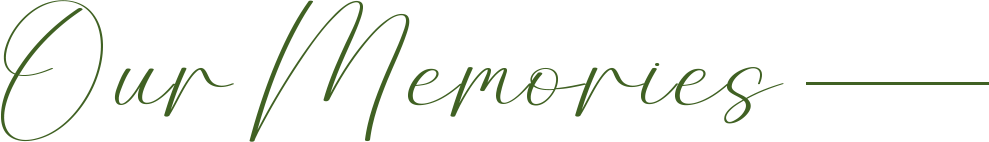
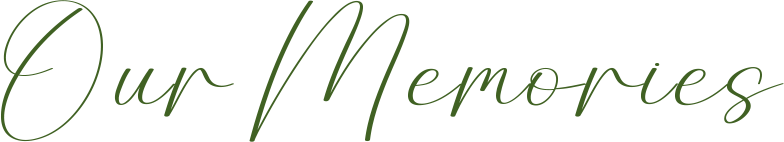
Fix responsive

Changed region(s): [[0.0, 0.0, 1.0, 1.0]]

diff --git a/index.html b/index.html
@@ -100,9 +100,9 @@
     <section class="timeline" id="timeline">
         <img class="image-timeline" src="./images/image_timeline.png" alt="image_timeline">
         <div class="mt-5">
-            <div class="row">
+            <div class="row col-timeline">
                 <div class="col-3">
-                    <img class="image-camera mx-4" src="./images/camera.png" alt="camera">
+                    <img class="image-camera mx-5 mt-2" src="./images/camera.png" alt="camera">
                 </div>
                 <div class="col-9">
                     <div class="mx-4">
@@ -110,14 +110,15 @@
                             ĐÓN KHÁCH | 17:30
                         </p>
                         <p class="mt-1">
-                            Checkin với photobooth và gửi lời chúc đến dâu rể
+                            Checkin với photobooth và gửi<br>
+                            lời chúc đến dâu rể
                         </p>
                     </div>
                 </div>
             </div>
-            <div class="row">
-                <div class="col-3 mt-2">
-                    <img class="image-rings mx-4" src="./images/rings.png" alt="rings">
+            <div class="row col-timeline">
+                <div class="col-3">
+                    <img class="image-rings mx-5" src="./images/rings.png" alt="rings">
                 </div>
                 <div class="col-9">
                     <div class="mx-4">
@@ -130,25 +131,25 @@
                     </div>
                 </div>
             </div>
-            <div class="row">
+            <div class="row col-timeline">
                 <div class="col-3 mt-2">
-                    <img class="image-cups mx-4" src="./images/cups.png" alt="cups">
+                    <img class="image-cups mx-5" src="./images/cups.png" alt="cups">
                 </div>
                 <div class="col-9">
-                    <div class="mx-4">
+                    <div class="mx-4 mt-3">
                         <p class="title">
                             ĐÓN KHÁCH | 17:30
                         </p>
                         <p class="mt-1">
-                            Cùng nhau ăn tiệc và nâng ly chúc mừng cô dâu chú rể
+                            Cùng nhau ăn tiệc và nâng ly<br>chúc mừng cô dâu chú rể
                         </p>
                     </div>
                 </div>
             </div>
         </div>
     </section>
-    <section class="our-memories pt-5 pb-2" id="our-memories">
-        <img class="title mx-2" src="./images/image_our_memories.png" alt="image_our_memories">
+    <section class="our-memories pt-5 pb-3" id="our-memories">
+        <img class="title" src="./images/image_our_memories.png" alt="image_our_memories">
         <div class="mx-2 mb-2 mt-5">
             <img src="./images/group_our_memories.png" alt="group_our_memories">
         </div>

diff --git a/index.css b/index.css
@@ -79,11 +79,9 @@ body {
 #opening img,
 #calendar .image-calendar,
 #timeline .image-timeline,
-#timeline .image-camera,
-#timeline .image-rings,
-#timeline .image-cups,
 #our-memories img,
-#thankyou img {
+#thankyou img,
+.col-timeline {
   width: 100%;
 }
 
@@ -221,18 +219,35 @@ body {
   background-size: 40%;
   background-repeat: no-repeat;
   background-position: bottom right;
-  padding-bottom: 100px;
+  padding-bottom: 80px;
+}
+
+#timeline p {
+  font-size: 12px;
 }
 
 #timeline .title {
   margin-bottom: unset;
   text-decoration: underline;
   text-underline-offset: 5px;
-  font-size: 24px;
+  font-size: 19px;
+}
+
+#timeline .image-camera,
+#timeline .image-rings,
+#timeline .image-cups {
+  width: 80%;
 }
 
 #our-memories {
   background-color: rgba(64, 97, 35, 0.302);
+}
+
+#our-memories .title {
+  width: 80%;
+  margin-left: auto;
+  margin-right: auto;
+  display: block;
 }
 
 #our-memories .line {
@@ -262,4 +277,56 @@ body {
 #thankyou .title {
   font-family: 'FTVTimelessMemories';
   font-size: 22px;
+}
+
+@media only screen and (min-width: 768px) {
+	#save-the-date .content-1,
+  #save-the-date .content-2 {
+    font-size: 55px;
+    line-height: 60px;
+  }
+
+  #family-information .title,
+  #wedding-information .link-location {
+    font-size: 35px;
+  }
+
+  #family-information p {
+    font-size: 24px;
+  }
+
+  #family-information .content-1 {
+    font-size: 50px;
+  }
+
+  #wedding-information p,
+  #timeline .title,
+  #thankyou .title {
+    font-size: 40px;
+  }
+
+  #wedding-information .content-2 {
+    font-size: 50px;
+    line-height: 50px;
+  }
+
+  #wedding-information .date-container .month, 
+  #wedding-information .date-container .year {
+    font-size: 40px;
+    line-height: 48px;
+  }
+
+  #wedding-information .date,
+  #countdown #countdown-number {
+    font-size: 90px;
+  }
+
+  #wedding-information .address,
+  #timeline p {
+    font-size: 25px;
+  }
+
+  #countdown .title {
+    font-size: 85px;
+  }
 }
